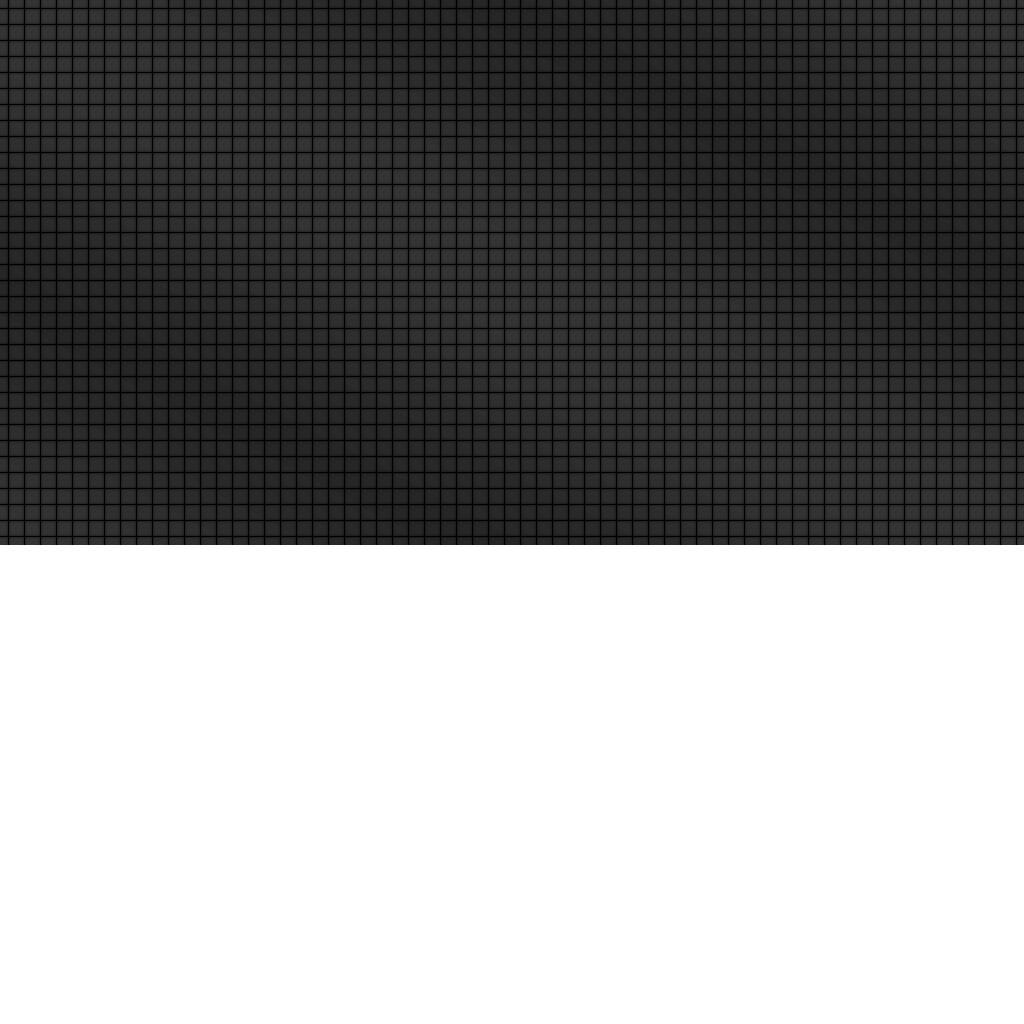
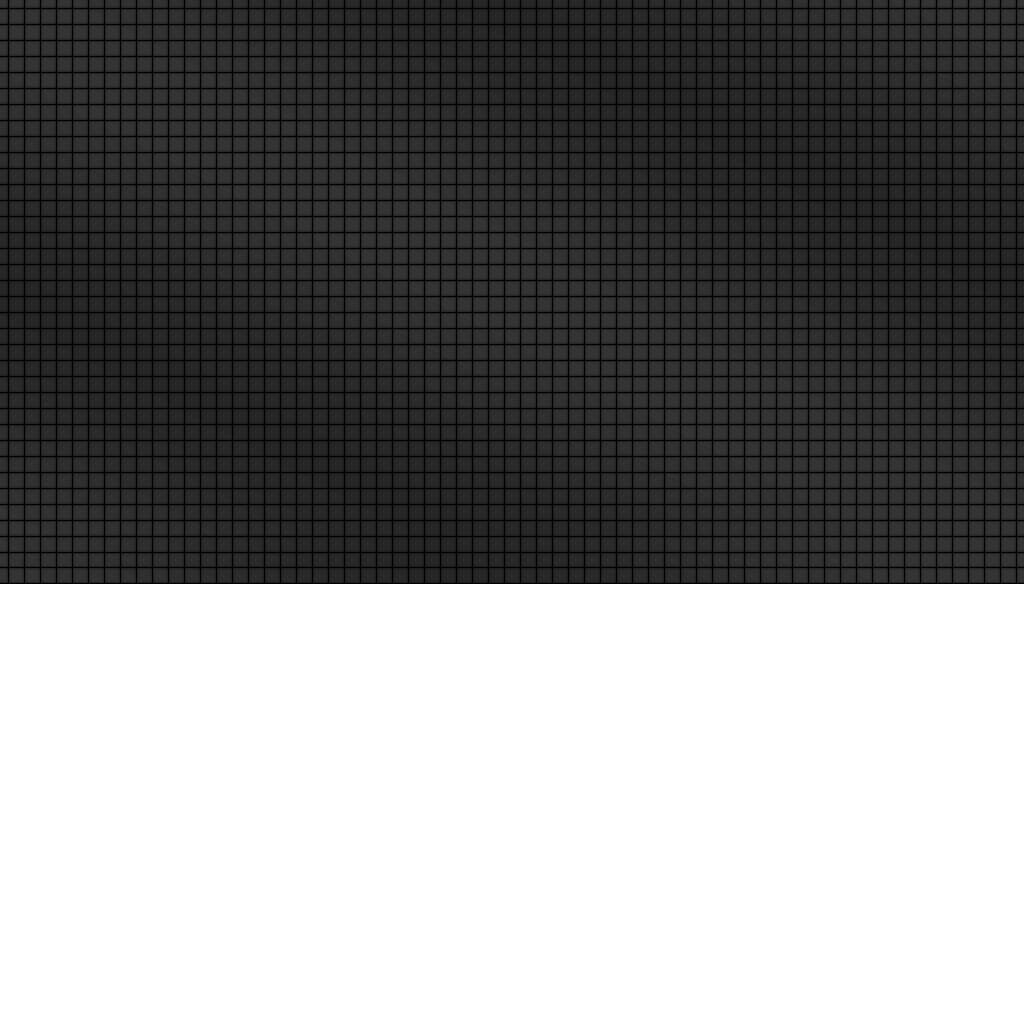
Déplacement de la carte vers le haut pour faire plus de place en bas pour les futurs messages.

Changed region(s): [[0.0, 0.5312, 1.0, 0.5938]]

diff --git a/superflu-android/src/com/tacoid/superflu/GameScreen.java b/superflu-android/src/com/tacoid/superflu/GameScreen.java
@@ -21,7 +21,7 @@ import com.tacoid.superflu.entities.Zone;
 
 public class GameScreen implements Screen {
 	private static final int VIRTUAL_WIDTH = 1024;
-	private static final int VIRTUAL_HEIGHT = 544; // XXX: Très plat :);
+	private static final int VIRTUAL_HEIGHT = 576;
 
 	private Stage stage;
 	private Group groupZones;
@@ -34,13 +34,13 @@ public class GameScreen implements Screen {
 		groupVilles = new Group();
 	
 		Texture backgroundTexture = new Texture(Gdx.files.internal("images/fond_carte.png"));
-		TextureRegion backgroundTextureRegion = new TextureRegion(backgroundTexture, 1024, 544);
+		TextureRegion backgroundTextureRegion = new TextureRegion(backgroundTexture, VIRTUAL_WIDTH, VIRTUAL_HEIGHT);
 		Image imgBackground = new Image(backgroundTextureRegion);
 		imgBackground.touchable = false;
 		stage.addActor(imgBackground);
 		
 		Texture carteTexture = new Texture(Gdx.files.internal("images/carte.png"));
-		TextureRegion carteTextureRegion = new TextureRegion(carteTexture, 1024, 544);
+		TextureRegion carteTextureRegion = new TextureRegion(carteTexture, VIRTUAL_WIDTH, VIRTUAL_HEIGHT);
 		Image carte = new Image(carteTextureRegion);
 		carte.touchable = false;
 		stage.addActor(carte);
